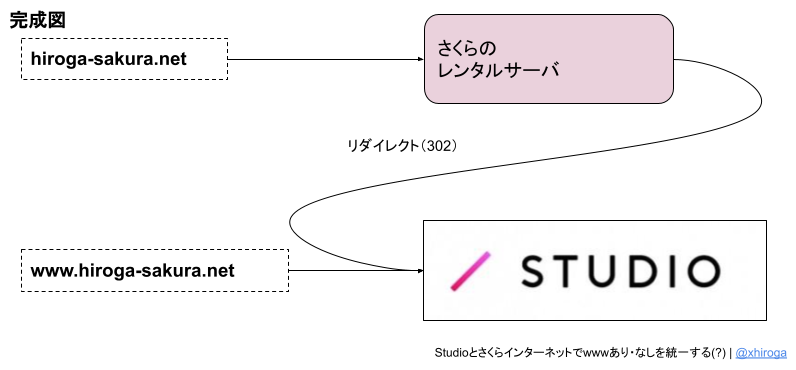
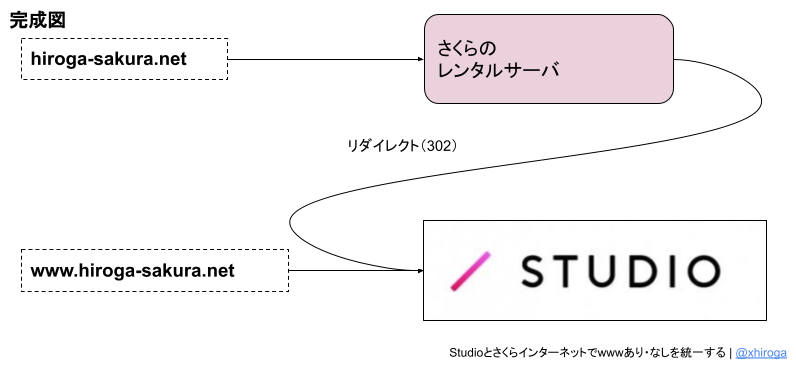
feat: about publish

Changed region(s): [[0.5427, 0.9216, 0.9347, 0.9811]]

diff --git a/articles/sakura-studio.md b/articles/sakura-studio.md
@@ -1,5 +1,5 @@
 ---
-title: "Studioとさくらインターネットでwwwあり・なしを統一する(?)"
+title: "Studioとさくらインターネットでwwwあり・なしを統一する"
 emoji: "🐘"
 type: "idea" # tech: 技術記事 / idea: アイデア
 topics: ["Studio", "さくらインターネット"]
@@ -69,9 +69,13 @@ Studioでカスタムドメインを設定します。
 
 [DNSの設定は前述のとおり](#dns設定)です。
 
-作業が完了したらTLS証明書の発行を待ちます。私の場合は2~3時間かかり、かつ完了後「公開」を押す必要がありました（別ドメインのため隠してます）
+作業が完了したらTLS証明書の発行を待ちます。
 ![TLS証明書を発行中...](/images/2022-08-07-11-00-23.png)
 
+カスタマーサポートの回答から察するに、StudioではかなりのDNSサーバー上でキャッシュが失効するまで（＝伝播が完了するまで）はTLS証明書の発行が完了しないようです。  
+私の場合は24時間以上待っても反映されないことが2度あり、うち一度はカスタマーサポートに対応を依頼するまで完了しませんでした。
+
+なお、申請完了後、ドメイン設定右上の青い「公開」ボタンを押す必要があります。
 
 ### 3. www.なしをありに転送する
 
@@ -79,7 +83,7 @@ Studioでカスタムドメインを設定します。
 ![hiroga-sakura.net ドメイン設定](/images/2022-08-07-11-02-43.png)
 
 www.なしのURLを開いて、www.ありにリダイレクトしていることが確認できれば完成です。
-![Studioに遷移](2022-08-07-11-06-15.png)
+![Studioに遷移](/images/2022-08-07-11-06-15.png)
 
 
 ## 注意事項
